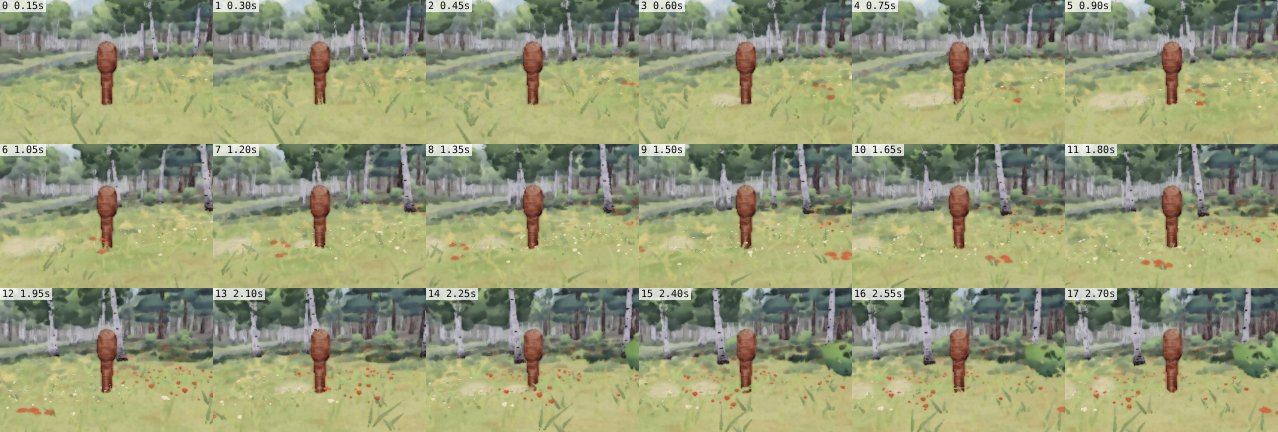
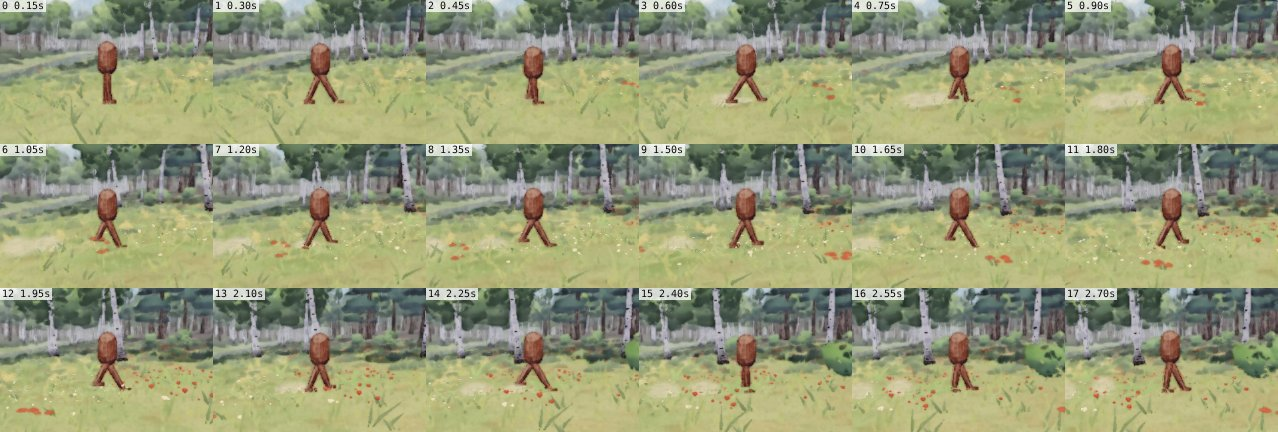
[physics] P13.3 notes and strips. The hand-over rewritten for the next agent (the gait: model, numbers per world and pace, what the strips show; the jump's anticipation; the three judgements with their numbers; API added; behaviour changed without a call changing; cost; what is not done: items 3 and

diff --git a/docs/notes/physics.md b/docs/notes/physics.md
@@ -3,7 +3,140 @@
 Branch: `cosmos` (shared with PAINTER and PILOT, one working tree). Commits: `tools/commit.sh physics`.
 Owner of: `src/physics/**`, `physics-lab.html`, `docs/notes/physics.md`, `docs/shots/physics/**`.
 
-## Hand-over P12 (ninth PHYSICS agent; read this block first; P11 and older below hold for everything not named here)
+## Hand-over P13 (tenth PHYSICS agent; read this block first; P12 and older below hold for everything not named here)
+
+**Where things stand.** `node --test src/physics/` 262 tests pass (9 new); PILOT's 117 pass on a clean export of
+`1186819` with my files (run twice: after the gait, and after the three judgements). Nothing half-edited, no job
+running. Scratch: `/home/user/.pc-scratch/physics/p13/` (`ex.sh`: a clean export of HEAD with the working
+`src/physics` and `physics-lab.html` over it, into `p13/root`; `gait.mjs`: the stride's numbers per world and pace;
+`rock.mjs`, `rock2.mjs`: a run at a 1 m boulder on PILOT's profile, the largest loss of speed in one step and a
+trace; `hull.mjs`: the hovering hull's attitude in three winds; `cost.mjs`: the crouch and the body step's cost;
+`before/`, `after/`: the strips). Items 1 and 2 of the order are done; **items 3 (trees and leaves in a storm) and
+4 (the Earth shore, seen) are not done**: what I found for item 3 without filming is under "Not done".
+
+**1. The gait (`explorer.js`; `gaitOf`, `stepGait`).** The body PILOT tuned (`st.p`, `st.v`: the path, the top
+speeds, the stops) is the stride's MEAN and is not touched: a test runs the same commands with two different
+stride phases and gets the same place and velocity to the last digit. Within the stride the hips ride the standard
+mechanics of a legged walker:
+- *Which gait and how long a step*: dynamic similarity (Alexander). Froude number Fr = v^2 / (g L), L = 0.9 m, g
+  the planet's (less buoyancy when wading). A walk below Fr 0.5, a run above (hysteresis 0.45 / 0.55): 2.0 m/s on
+  Earth, 1.0 m/s on the Moon. Step = L x 1.10 Fr^0.21 walking (0.72 m at 1.4 m/s: Grieve's v^0.42), L x 1.20
+  Fr^0.34 running (the form of Alexander and Jayes). Cadence = v / step. **PILOT's "walk" (4.2 m/s) is by its gait a
+  run (Fr 2.2)**; a walking gait is seen only under 2 m/s (a gamepad's half stick, a climb, sand, a headwind).
+- *A walk* is an inverted pendulum on a rocker foot (roll-over radius 0.3 L): the hips are at standing height over
+  the stance foot and lowest while both feet are down (the weight passing from one arc to the other), and slowest
+  at the top (65 % of the rise comes back as speed).
+- *A run* is a spring-mass: a ballistic flight under the planet's own gravity between contacts; in contact the leg's
+  force is half a sine whose impulse carries the weight over the whole step (peak = pi/2 x g x period / contact);
+  the foot is down while the body travels 2 L sin(30 deg) = 0.9 m; lowest at mid-stance, highest in mid-flight;
+  braked while the foot is ahead, driven when it is behind.
+- Numbers (`p13/gait.mjs`, the body's own 60 Hz steps; g as in `src/data/bodies.js`):
+
+  | world, pace | gait | step | steps / s | foot down | flight | in flight | hips (cm under standing) | bob | peak force |
+  |---|---|---|---|---|---|---|---|---|---|
+  | Earth 1.5 m/s | walk | 0.76 m | 2.0 | 0.60 s | none | 0 % | 5.5 to 0 | 5.5 cm | 1.3 x weight |
+  | Earth 4.2 m/s | run | 1.41 m | 3.0 | 0.21 s | 0.12 s | 36 % | 12.7 to 5.9 | 6.8 cm | 2.5 |
+  | Earth 7.4 m/s | run | 2.07 m | 3.6 | 0.12 s | 0.16 s | 58 % | 10.8 to 4.8 | 6.0 cm | 3.6 |
+  | Moon 1.5 m/s | run | 1.13 m | 1.3 | 0.60 s | 0.16 s | 21 % | 13.5 to 7.0 | 6.6 cm | 2.0 (lunar) |
+  | Moon 4.2 m/s | run | 2.27 m | 1.85 | 0.21 s | 0.33 s | 61 % | 10.4 to 4.7 | 5.7 cm | 4.0 |
+  | Moon 7.4 m/s | run | 3.34 m | 2.2 | 0.12 s | 0.33 s | 73 % | 9.1 to 4.6 | 4.5 cm | 5.9 |
+  | Jupiter (11.5) 7.4 m/s | run | 1.90 m | 3.9 | 0.12 s | 0.14 s | 53 % | 11.2 to 4.9 | 6.3 cm | 3.3 |
+  | Pluto (1.4) 7.4 m/s | run | 3.89 m | 1.9 | 0.12 s | 0.41 s | 78 % | 8.8 to 4.7 | 4.0 cm | 6.8 |
+  | gravity 24.8, 7.4 m/s | run | 1.47 m | 5.1 | 0.12 s | 0.08 s | 39 % | 12.5 to 5.8 | 6.8 cm | 2.6 |
+
+  The speed within the stride (`pulse`): -0.07 to +0.14 m/s strolling, -0.18 to +0.09 at 4.2 m/s, -0.18 to +0.05 at
+  7.4 m/s on Earth, half that on the Moon. A lope's rise is small by its own arithmetic (a 0.33 s flight under
+  2.2 m/s^2 rises 3 cm): the Moon reads in the long steps, the slow cadence and the time in the air, not in height.
+  Caveat, written down: people in simulated low gravity lengthen their stride less than dynamic similarity says
+  (Donelan and Kram 2000), so this lope is if anything too long; the standard model was asked for and is what is in.
+- *Footfalls*: each foot comes down at stride phase 0 (left) and 0.5 (right), half a stance's travel ahead of the
+  body and 8 cm to its own side, on the ground there (one more surface sample per footfall); a landing from the air
+  is a footfall of both feet. Tested: none missed, left / right alternate, a step length apart, on the ground.
+- *The jump's anticipation*: on a jump command the legs fold for `jumpCrouch` (0.12 s) before the push; the hips
+  fall no faster than gravity (nothing can pull them down): 4.5 cm on Earth, 1.1 cm on the Moon, in `st.phys.hip`;
+  `crouch01` runs 0 to 1. Then the same take-off speed and the same height as before. `cmd.jumpCrouch = 0` (or the
+  tuning) is the old jump. A real counter-movement of 0.3 m takes 0.26 s on Earth and 0.5 s on the Moon: how much
+  of that the game wants is PILOT's.
+
+**2. Three judgements (`explorer.js`, `ship.js`; each held by a test).**
+- *Jetpack descent.* The 5 s at 9 m/s of the P12 strip was the LAB's own `descentLimit: 9`. In the game the limit
+  is PILOT's wrapper's (`terminalFall` 24 m/s, then `softFallSpeed` + 0.45 m/s per metre over 1.5 m): a 49 m fall is
+  free for 1.9 s, meets the limit at 33 m and 17 m/s and is gathered in to 4 m/s over 3.4 s: never one speed. What
+  was mine: the brake came on at full in the step the limit was passed. It now lights a quarter of the limit before
+  it and grows with the square (`retroBand`), carrying the weight exactly at the limit: the largest change of
+  acceleration in one step was 9 m/s^2, now under 1.2. The lab commands PILOT's law (`descent=<m/s>` for one speed).
+- *The hovering hull.* `buffetAngle` was the chop alone: 0.07 degrees in a breeze. Now the wind's force on the hull
+  acts above and aft of the centre of mass (`cpHeight` 0.5 m, `cpAft` 1.2 m, `cpPlan` 0.6 m) against an attitude
+  hold (`holdRate` 1.6 rad/s, `holdDamp` 0.45: it overshoots a gust and comes back): a side wind rolls the hull
+  away from the wind and swings the nose into it. By the hull's own mass (4.2 t) and areas (`p13/hull.mjs`): in
+  gusts of 6.5 to 10 m/s roll 0.2 to 0.7 degrees and yaw 0.2 to 0.6; in 14 to 26 m/s roll 0.9 to 4.8, yaw 0.9 to
+  3.8; in 30 to 50 m/s roll 4.5 to 17. **So in the breeze the lead saw, the hull really is nearly level (half a
+  degree); it rocks by degrees in a storm.** `buffetAngle.yaw` is new. Drawn attitude only, never the flight.
+- *The check at a boulder.* The feet still go no further up a face than the hips can follow, but the body is not
+  stopped in that step: the legs take its speed up at `legCatch` (30 m/s^2) while it comes on over its planted feet
+  (`st.phys.surge`, 0.4 m at most). Moon, 7.4 m/s at a 1 m boulder: 2.2 m/s lost in one step before, 0.5 now, over
+  0.16 s; Earth, Mars the same bound; still no step in the air, the top crossed at the same pace.
+
+**The strips** (640 x 360, quality 1; `docs/shots/physics/motion-explorer-*.jpg` with `.json`; the "before" from a
+clean export of `1186819` as committed, the "after" from the same export with my working files after the gait
+commit `60423e0`, before the three judgements). Opened: `explorer-walk` before and after, `explorer-run-moon` before
+and after, `explorer-run` after, `explorer-stroll` after. Not opened: `explorer-run` before, `explorer-stroll`
+before, `explorer-walk-moon` before and after (numbers only: hips 10.6 to 4.6 cm under standing, feet down
+`001100022200011000`).
+- Before (`-before.jpg`): a peg on one fused leg, the same in all 18 frames, sliding over the ground (hips 0.000).
+- `explorer-walk` after (Earth, 4.2 m/s, 15 frames a second): two legs scissor, crossing under the hips every third
+  frame; the torso is visibly lower at mid-stance than at the spread; a figure that plainly steps, three steps a
+  second. With stick legs the flight does not read as a flight: at the spread both boots are within centimetres of
+  the ground (a run's rise is 3 cm), so it reads as a brisk striding walk. A knee and a heel kick are PAINTER's.
+- `explorer-run-moon` after (4.3 to 5.4 m/s: without PILOT's thrusters the lab's body is still gaining pace):
+  the same scissor at about half the cadence, the spread pose held for three to four frames of twelve a second
+  (the flight), the legs together for two (the contact). It steps; the lope reads as slowness, not as height.
+- `explorer-run` after: stands with its feet together, steps off, the stride lengthens with the run, stops with
+  the feet together again at 2.4 s; one last small step as it settles.
+- `explorer-stroll` after (1.5 m/s): a walk, two steps a second, both boots on the ground at the spread, legs
+  together over the stance foot.
+- NOT re-rendered after the three judgements: `explorer-jet`, `ship-hover`, `clamber-run-moon` (their numbers come
+  from Node: `rock.mjs`, `hull.mjs`, the tests). The lab does not draw `buffetAngle` on its hull.
+
+**API added in P13 (all additive).** `explorer.js`: `gaitOf(v, g, T, out, was)` (also `physics.explorer.gait`);
+`st.phys`: `gait`, `stride`, `stepPhase`, `cadence`, `stepLength`, `duty`, `footDown`, `flight`, `bob`, `bobV`,
+`ride`, `pulse`, `surge`, `load`, `steps`, `footfall`, `footfalls`, `feet`, `heading`, `crouch01`, `jumpT`;
+`cmd.jumpCrouch`; tuning `gaitFr`, `walkStep`, `walkStepExp`, `walkDuty`, `walkDutyFr`, `runStep`, `runStepExp`,
+`gaitSweep`, `runDutyMax`, `gaitRocker`, `recovery`, `stepWidth`, `jumpCrouch`, `retroBand`. `ship.js`:
+`buffetAngle.yaw`, `st.phys.gustAtt`, tuning `cpHeight`, `cpAft`, `cpPlan`, `holdRate`, `holdDamp`. Lab: `descent=`;
+the stand-in has two legs. Film: `explorer-walk`, `explorer-stroll`, `explorer-walk-moon`, `explorer-run-moon`;
+`P.ex()` carries `ride`, `gait`, `stride`, `feet`, `steps`.
+
+**Behaviour that changed without a call changing.** (1) The feet leave the ground 0.12 s after a jump command
+(same speed, same height). (2) At a face `st.v` falls at 30 m/s^2 instead of in one step (the place is as before).
+(3) The descent brake begins at three quarters of `cmd.descentLimit` (a fall reaches the limit a little later and
+never with a step in its acceleration; a jump's last 0.1 s is a touch softer). (4) `buffetAngle.pitch` and `.roll`
+carry the wind's trim (PILOT draws them on the hull, clamped at 0.12 rad). (5) The lab's descent is PILOT's law.
+
+**Cost.** The body step at a run over rolling ground: 2.9 microseconds with the gait (the P12 file measured 3.7 in
+the same minute: the difference is the machine's noise, not a gain), plus one surface sample per footfall (2 to 4
+a second). `physics.update` was not touched and not re-measured. No timing test failed in three full runs.
+
+**Not done, in order.**
+1. *Item 3, trees and leaves in a storm* (nothing filmed, nothing changed). Found by search: **PAINTER does not
+   call `pcPhysBranch` anywhere in `src/world` or `src/render`**, so no branch moves in the game or in the painted
+   lab; the "+-7 cm at 1.7 Hz" of P12 was `plantBranch`'s number, never a picture. And the number itself is small:
+   branch swing is `branchGain` (1.3) x the TRUNK's lean, and P11 made trunks stiff, so the branches went quiet
+   with them. A leafy birch branch of 3.5 m in a 20 m/s gale carries tens of newtons of its own drag and its tip
+   moves +-0.3 to 0.6 m at 1 to 2 Hz. Next: drive the branch by its own wind load (the gust speed at the crown, not
+   the trunk's lean), in `plantBranch` and `pcPhysBranch` alike, aim at those tips, and prove it in the lab by
+   applying `pcPhysBranch` in a stand-in crown. Leaves: `PARTICLES.capacity.leaves` is [80, 260, 600] and a leaf's
+   `size` is its real 4 to 6 cm: 190 leaves round the focus are about ten in view, 3 px each at 10 m. Next: five
+   to ten times the count in a gale, and a mark that stands for a spray of leaves (see For PAINTER).
+2. *Item 4, the Earth shore*: `shore-earth` exists as a subject and was not run or opened; a breeze and a calm
+   variant are to be added (`--q` with a time of stronger wind) and judged.
+3. The lab's hull does not show `buffetAngle`; `explorer-jet`, `ship-hover`, `clamber-run-moon` not re-filmed.
+4. The stand-in's legs are sticks: no knee, so a flight phase does not read as one. A knee that folds in the swing
+   (heel toward the hip) would show it; that belongs to whoever draws the figure.
+5. From P12, still open: the storm frame not re-shot; `tree-gust`, `clamber-run`, `clamber-walk-moon` not opened;
+   the sea state is one state round the focus; nothing under one second in the gust pattern.
+
+## Hand-over P12 (ninth PHYSICS agent; P13 above is newer; P11 and older below hold for everything not named here)
 
 **Where things stand.** `node --test src/physics/` 253 tests pass; PILOT's 117 pass on a clean export of `6130796`
 with my files. Nothing half-edited, no job running. Scratch: `/home/user/.pc-scratch/physics/p12/` (`ex.sh`: a clean
@@ -1082,6 +1215,42 @@ takes about 30 s to pass, so even Neptune's weather arrives rather than switches
 
 ## For PILOT: wiring, in order
 
+### P13, first (tenth PHYSICS agent): the gait, the jump, the hull, the descent
+
+1. **Draw the stride** (one line in `src/core/game.js`, where you pass `hip:` to `explorerModel.animate`): pass
+   `hip: sim.ex.phys.ride` in place of `.hip`. `ride` = `hip` + the stride's bob: everything the legs do to the
+   hips, in metres off standing (a run rides 5 to 13 cm under standing and moves 6 to 7 cm with every step; a
+   stroll 0 to 5.5 cm). Pass also, additively, for PAINTER's figure: `stride: phys.stride` (0 .. 1; LEFT foot down
+   at 0, RIGHT at 0.5), `footDown: phys.footDown` (1 left, 2 right, 3 both, 0 neither: a flight of the run),
+   `feet: phys.feet` ([left, right] `{ fwd, up, side, down }` in metres: ahead of `st.p` along `phys.heading`, off
+   the ground, to the right), `surge: phys.surge` (m the body is ahead of `st.p` within the stride, and over its
+   planted feet at a face), `crouch01: phys.crouch01`, `gait: phys.gait` (0 standing, 1 walk, 2 run).
+   **The camera should NOT ride `ride`**: keep it on `st.p` (the stride's mean), or take a tenth of the bob if you
+   want the view to breathe. `st.grounded` stays true through the flights of a run (they are the gait's own).
+2. **Footsteps**: `phys.steps` counts footfalls; when it changes, `phys.footfall` is `{ n, foot (0 left, 1 right,
+   2 both: a landing), p (body-local place on the ground), force (N: the stance's peak; 2.5 kN at your walk, 3.3 kN
+   at a run on Earth, 1.3 kN on the Moon), speed (m/s the foot meets the ground at) }`. Loudness with force over
+   weight (`force / (100 x gravity)`: 1.3 strolling, 2.5 to 3.6 running), the material from `phys.material`. At
+   most one footfall in a step at any frame rate down to 20 Hz; `phys.footfalls[n & 3]` keeps the last four.
+   Cadence at your paces: 3.0 a second at 4.2 m/s and 3.6 at 7.4 on Earth, 1.85 and 2.2 on the Moon.
+3. **The jump is 0.12 s later** (the legs fold first). Your suite passes with it. It is your lever:
+   `cmd.jumpCrouch` (s; 0 = at once, as before; unset = `EXPLORER_BODY.jumpCrouch`). For the figure: `crouch01`
+   runs 0 to 1 through the fold (arms back, a lean), and `hip` (so `ride`) drops 4.5 cm on Earth, 1.1 cm on the
+   Moon in that time (free fall: nothing can pull the hips down faster). Feel is yours: 0.2 s gives 16 cm on Earth.
+4. **Your "walk" is a run** by its gait (4.2 m/s, Froude 2.2: three steps a second, a third of the time in the
+   air). A walking gait exists only under 2.0 m/s on Earth (1.0 on the Moon). If the relaxed pace should LOOK like
+   a walk it must be about 1.6 to 1.9 m/s; that is feel and yours. Nothing to wire.
+5. **The hull in a wind**: `buffetAngle` now has `yaw`: add `shObj.rotateY(clamp(buf.yaw, -0.12, 0.12))` beside
+   your `rotateX(pitch)` and `rotateZ(roll)` (same convention: the nose is -z). By the hull's mass and areas the
+   angles are half a degree in a 6.5 to 10 m/s breeze and 1 to 5 degrees in a storm: real, and in a breeze still
+   close to level. If the hull should be seen to breathe in a breeze, that is a gain on the DRAWN attitude and
+   yours to name (say `hullSway`, 3 to 4, on all three angles before your clamp); the flight is not touched.
+6. **The descent**: the limit is yours (`terminalFall`, `softFallSpeed`, 0.45 per metre) and it is not one speed:
+   a 49 m fall is gathered in from 17 m/s at 33 m to 4 m/s over 3.4 s. The 9 m/s the strip showed was my lab's.
+   Mine now: the brake eases in from three quarters of your limit (`EXPLORER_BODY.retroBand`). Nothing to wire.
+7. **A face**: `st.v` now falls over about 0.1 s at a boulder's face (30 m/s^2) instead of in one step; `st.p` is
+   as before; `phys.surge` holds how far the body is over its feet. Nothing to wire; your suite passes.
+
 ### P12, first (ninth PHYSICS agent)
 
 1. **The ship's last metre** (`stepShipBody`): a sink near the ground now follows its velocity target (it hung at
@@ -1574,6 +1743,36 @@ What follows is what a physicist would object to, and it is all in the assists.
     it wants a wake and a bob from `physics.fields.water`, which the ship does not read.
 
 ## For PAINTER: everything you need, on its own (current at the commit that carries this note)
+
+### P13, first (tenth PHYSICS agent): legs that step, prints, branches, leaves
+
+1. **Swing the legs in time with the body** (the figure; PILOT passes these to `explorerModel.animate` once it has
+   wired them: `hip` becomes the hips' whole ride, plus `stride`, `footDown`, `feet`, `surge`, `crouch01`, `gait`).
+   The model gives each foot: `feet[0]` left, `feet[1]` right, `{ fwd, up, side, down }` in metres: ahead of the
+   body along its heading, off the ground, to the right, and whether it is planted. Place the boots there, hang
+   the hips at 0.9 m + `hip` over the ground and `surge` ahead, and bend the knees to fit; do not run a walk cycle
+   of your own on a clock: the cadence is the model's (3 steps a second at the walk, 3.6 at the run on Earth, 1.85
+   and 2.2 on the Moon) and a clock of yours will beat against the bob. In a run both feet are off the ground for
+   a third to three quarters of the time and only 2 to 12 cm up: the flight reads in the knee (fold the swinging
+   leg, heel toward the hip, up to 90 degrees at a run) and in the trailing leg stretched behind, not in height.
+   My lab's stand-in (`src/physics/three/painted-lab.js`, "the figure") does the plain version with stick legs;
+   `docs/shots/physics/motion-explorer-walk.jpg` and `-run-moon.jpg` show it stepping, the `-before` ones the peg.
+2. **Prints**: every footfall has a place: `st.phys.footfall = { n, foot, p, force, speed }` (PILOT's side reads
+   it; `foot` 0 left, 1 right, 2 both for a landing). The ground-deformation field already takes marks from the
+   explorer's disturber; a print per footfall (a boot 0.30 x 0.12 m, along `heading`, depth with `phys.sink`) at
+   `p` would replace the continuous track with steps 1.4 to 3.3 m apart. Ask and I add a `footprint` mark kind.
+3. **Branch sway is still not applied** (no `pcPhysBranch` in `src/world` or `src/render`): in a storm every crown
+   in the game moves only as a rigid thing on its trunk. Wire it as the chunk says (`flora.glsl.js`, above
+   `pcPhysBranch`): `vec3 rel = wp - io; rel += pcPhysBranch(rel, up, H, rootB, pb); wp = io + pcPhysDisplace(rel,
+   up, H, pb.xy);` with `rootB` the point of the trunk the stroke's branch leaves from (per stroke or per cluster:
+   strokes of one branch must share it, or the crown tears) and `pb` the plant's bend you already compute. Its
+   amplitude today is small (centimetres) and will grow when I drive branches by their own wind load (next
+   stage), so wire it and judge the look after that.
+4. **Leaves**: a leaf particle's `size` is its real size (4 to 6 cm), 3 px at 10 m. The glaze should draw each as
+   a dab at least 8 px across at the game's camera distance (a mark that stands for a spray of leaves: size x 3,
+   never under 8 px), turned by its tumble so that it flickers light and dark (the pale underside every half
+   turn), in the leaf colours of the trees it came from, and not as a level dash (rain and spray are level
+   dashes). The count will rise five to ten times in a gale next stage; the buffers take it.
 
 ### P12, first (ninth PHYSICS agent): Neptune's coast, and what else the strips showed
 
@@ -2142,6 +2341,8 @@ keeps this on the grid of the ground marks (64 x 64 cells of 0.5 m round the foc
 
 ## Lab: `physics-lab.html` URL parameters
 
+(P13) `descent=<m/s>`: the explorer's descent held to one speed (default: PILOT's law, as the game commands it). The stand-in figure has two legs and boots placed by `st.phys.feet` under hips at `st.phys.ride`; `legs=0` is the one-piece capsule.
+
 **Painted lab, P10:** `kits=painter` (default: the world's own kits and PAINTER's materials, the game's picture)
 | `kits=lab` (this page's stand-in materials alone) | `kits=0`; with `kits=lab`: `glaze=0` (dust, sand and
 leaves back in the painting as cut marks), `figure=<0..1>` (flakes in a shadow tone over fresh snow).
@@ -2288,6 +2489,13 @@ Example: `node tools/shot.mjs "/physics-lab.html?scene=ship&fixed=1&fast=3" out.
     over it at the focus.
 
 ## Needs from the others
+
+**P13 (tenth agent), current needs.** From PILOT (all in "For PILOT", P13): (1) pass `phys.ride` as `hip` and
+`stride`, `footDown`, `feet`, `surge`, `crouch01`, `gait` to the figure; (2) footsteps from `phys.steps` /
+`phys.footfall`; (3) `rotateY(buf.yaw)` on the drawn hull, and a named gain if it should read in a breeze; (4) a
+decision on `cmd.jumpCrouch` (0.12 s now) and on whether the relaxed pace should be a walk by its gait (under
+2 m/s). From PAINTER (all in "For PAINTER", P13): (1) legs placed by `feet`, hips by `hip`, no clock of its own;
+(2) `pcPhysBranch` wired; (3) leaves as dabs of at least 8 px that flicker; (4) a knee in the swing.
 
 **P12 (ninth agent), current needs.** From PAINTER, on Neptune's coast and any sea (all in "For PAINTER", P12):
 (1) the carry distance from the long train's wavelength (`uPhysWaterK.w`) and far vertices displaced by
